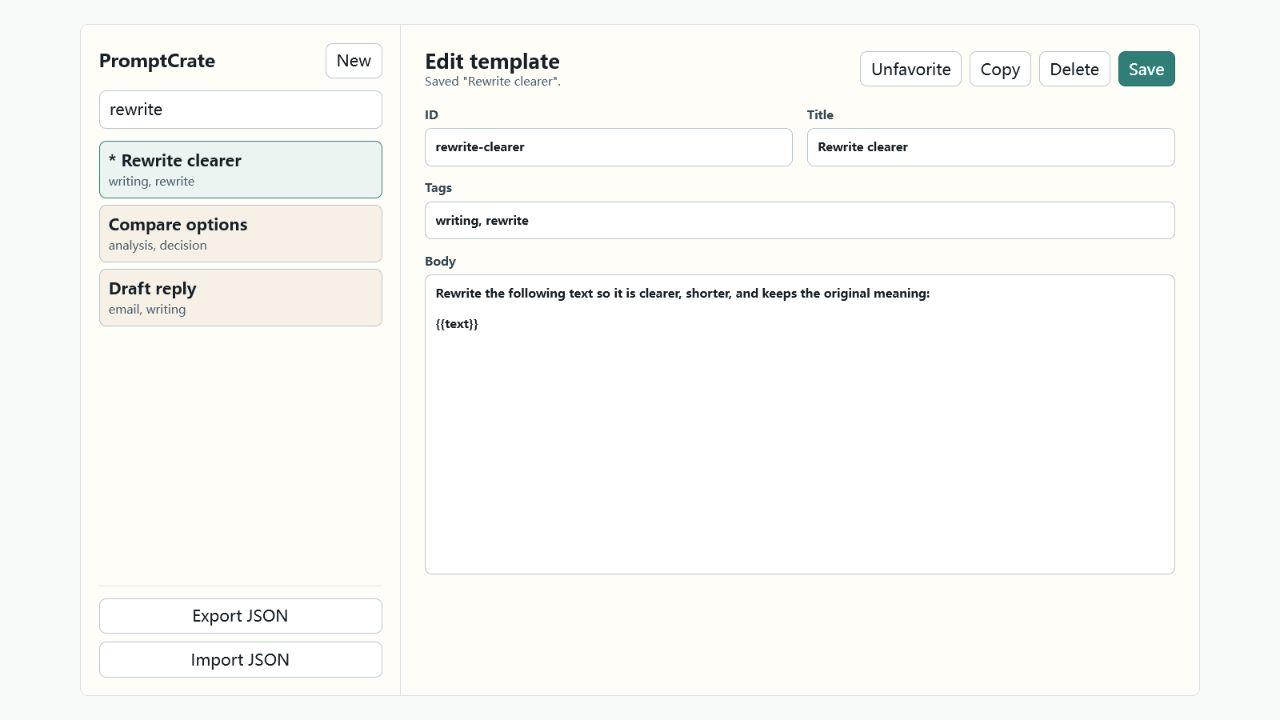
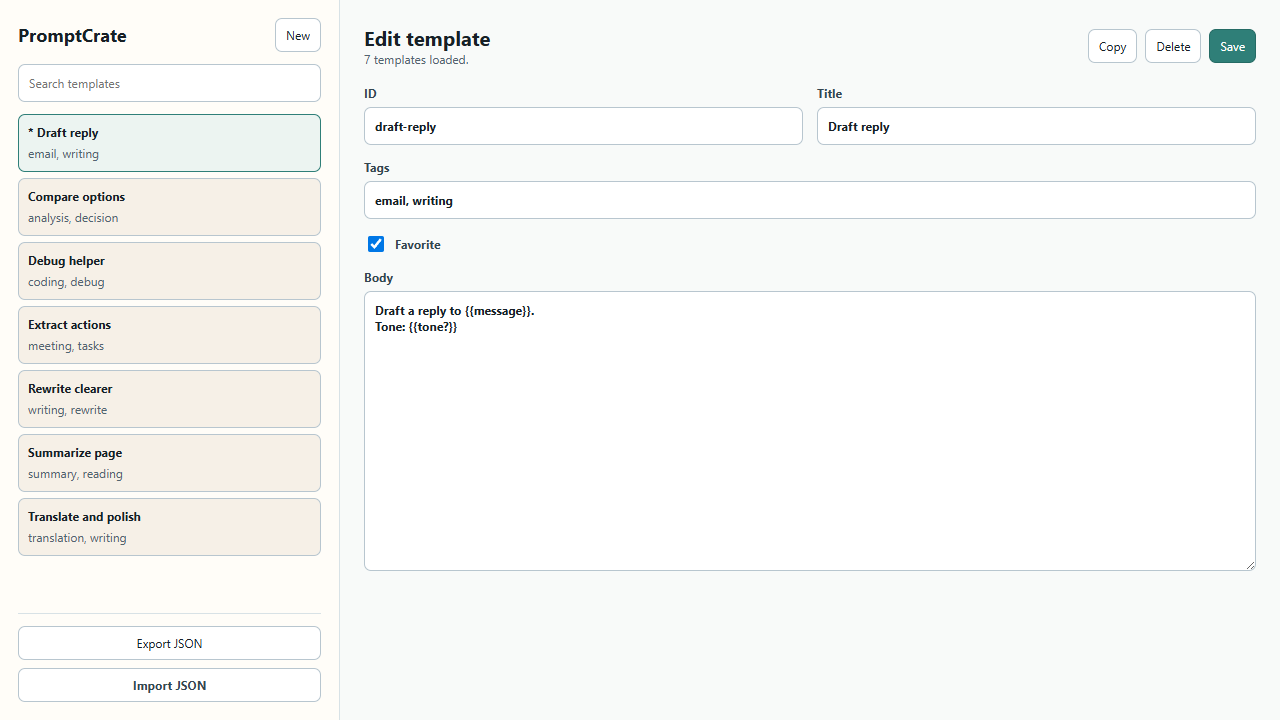
Fix favorite editing, automatic template IDs, and Chinese tags (#34)
Keep favorite changes in the editor until Save instead of mixing draft state with an immediate toggle. Deduplicate automatically generated IDs and accept common Chinese tag separators so repeated titles and Chinese tags can be saved reliably.

Fixes #20, fixes #22.

Tested: 76 unit tests, 19 fixture E2E tests, lint, typecheck, production build

diff --git a/tests/e2e/promptcrate-extension.spec.ts b/tests/e2e/promptcrate-extension.spec.ts
@@ -365,6 +365,123 @@ test("composes Shadow DOM insertion events and honors document beforeinput cance
   }
 });
 
+test("Options saves favorites through the form and preserves unsaved edits on failure", async (
+  { browserName }, testInfo,
+) => {
+  expect(browserName).toBe("chromium");
+  const app = await launchPromptCrate(testInfo.outputPath("profile-favorite-form"));
+  try {
+    const options = await resetExtensionStorage(app.extensionId, app.context);
+    await options.getByRole("button", { name: "Draft reply", exact: false }).click();
+    const favorite = options.getByRole("checkbox", { name: "Favorite", exact: true });
+    const saved = async () => (await readTemplates(options)).find((record) => record.id === "draft-reply");
+    const originalBody = (await saved())!.body;
+    await expect(options.getByRole("button", { name: /^(Unfavorite|Favorite)$/ })).toHaveCount(0);
+    await favorite.check();
+    await options.getByLabel("Body").fill("Draft a reply to {{message}}.\nTone: {{tone?}}");
+    expect((await saved())!.isFavorite).toBe(false);
+    expect((await saved())!.body).toBe(originalBody);
+
+    await options.evaluate(() => {
+      const originalSet = chrome.storage.local.set;
+      chrome.storage.local.set = (() => Promise.reject(new Error("Test save failure"))) as typeof chrome.storage.local.set;
+      window.addEventListener("promptcrate:test-restore-save", () => {
+        chrome.storage.local.set = originalSet;
+      }, { once: true });
+    });
+    await options.getByRole("button", { name: "Save", exact: true }).click();
+    await expect(options.locator(".status.error")).toContainText("Test save failure");
+    await expect(favorite).toBeChecked();
+    await expect(options.getByLabel("Body")).toHaveValue("Draft a reply to {{message}}.\nTone: {{tone?}}");
+    expect((await saved())!.isFavorite).toBe(false);
+
+    await options.evaluate(() => window.dispatchEvent(new Event("promptcrate:test-restore-save")));
+    await options.getByRole("button", { name: "Save", exact: true }).click();
+    await expect(options.locator(".status")).toContainText('Saved "Draft reply".');
+    expect((await saved())!.isFavorite).toBe(true);
+    expect((await saved())!.body).toBe("Draft a reply to {{message}}.\nTone: {{tone?}}");
+    await expect(options.locator(".template-row").first()).toContainText("* Draft reply");
+    await options.reload();
+    await expect(options.locator(".status")).toContainText("templates loaded.");
+    await options.getByRole("button", { name: /Draft reply/ }).click();
+    await expect(favorite).toBeChecked();
+    const screenshotPath = testInfo.outputPath("options-favorite-form.png");
+    await options.screenshot({ path: screenshotPath, fullPage: true });
+    await testInfo.attach("options-favorite-form", { path: screenshotPath, contentType: "image/png" });
+
+    await favorite.uncheck();
+    expect((await saved())!.isFavorite).toBe(true);
+    await options.getByRole("button", { name: "Save", exact: true }).click();
+    await expect(options.locator(".status")).toContainText('Saved "Draft reply".');
+    expect((await saved())!.isFavorite).toBe(false);
+    await options.reload();
+    await expect(options.locator(".status")).toContainText("templates loaded.");
+    await options.getByRole("button", { name: /Draft reply/ }).click();
+    await expect(favorite).not.toBeChecked();
+  } finally {
+    await app.context.close();
+  }
+});
+
+test("Options generates unique automatic IDs and splits Chinese tag punctuation", async (
+  { browserName }, testInfo,
+) => {
+  expect(browserName).toBe("chromium");
+  const app = await launchPromptCrate(testInfo.outputPath("profile-auto-ids"));
+  try {
+    const options = await resetExtensionStorage(app.extensionId, app.context);
+    const original = (await readTemplates(options)).find((record) => record.id === "summarize-page");
+    for (const suffix of ["2", "3"]) {
+      await options.getByRole("button", { name: "New", exact: true }).click();
+      await options.getByLabel("Title", { exact: true }).fill("Summarize page");
+      await options.getByLabel("Body", { exact: true }).fill(`Separate template ${suffix}`);
+      await options.getByLabel("Tags", { exact: true }).fill("写作，翻译、 写作;coding；阅读, , translation");
+      await options.getByRole("checkbox", { name: "Favorite", exact: true }).check();
+      await options.getByRole("button", { name: "Save", exact: true }).click();
+      await expect(options.locator(".status")).toContainText('Saved "Summarize page".');
+      await expect(options.getByLabel("ID", { exact: true })).toHaveValue(`summarize-page-${suffix}`);
+      const record = (await readTemplates(options)).find((item) => item.id === `summarize-page-${suffix}`);
+      expect(record).toMatchObject({
+        body: `Separate template ${suffix}`, isFavorite: true,
+        tags: ["写作", "翻译", "coding", "阅读", "translation"],
+      });
+    }
+    expect((await readTemplates(options)).find((record) => record.id === "summarize-page")).toEqual(original);
+    // Clearing the ID during editing may reuse that template's own generated ID.
+    await options.getByLabel("ID", { exact: true }).fill("   ");
+    await options.getByRole("button", { name: "Save", exact: true }).click();
+    await expect(options.locator(".status")).toContainText('Saved "Summarize page".');
+    await expect(options.getByLabel("ID", { exact: true })).toHaveValue("summarize-page-3");
+    expect(await readTemplates(options)).toHaveLength(9);
+
+    await options.getByRole("button", { name: "New", exact: true }).click();
+    await options.getByLabel("ID", { exact: true }).fill(" summarize-page ");
+    await options.getByLabel("Title", { exact: true }).fill("Explicit duplicate");
+    await options.getByLabel("Body", { exact: true }).fill("Must not overwrite");
+    await options.getByRole("button", { name: "Save", exact: true }).click();
+    await expect(options.locator(".status.error")).toContainText("Template ID already exists.");
+    expect(await readTemplates(options)).toHaveLength(9);
+    expect((await readTemplates(options)).find((record) => record.id === "summarize-page")).toEqual(original);
+
+    // Non-Latin titles can fall back to the same timestamp; generated IDs still need deduplication.
+    await options.evaluate(() => { Date.now = () => 1_793_318_400_000; });
+    for (const suffix of ["", "-2"]) {
+      await options.getByRole("button", { name: "New", exact: true }).click();
+      await options.getByLabel("Title", { exact: true }).fill("翻译模板");
+      await options.getByLabel("Body", { exact: true }).fill("Translate {{text}}");
+      await options.getByRole("button", { name: "Save", exact: true }).click();
+      await expect(options.locator(".status")).toContainText('Saved "翻译模板".');
+      await expect(options.getByLabel("ID", { exact: true })).toHaveValue(`template-1793318400000${suffix}`);
+    }
+    await options.reload();
+    await expect(options.locator(".status")).toContainText("11 templates loaded.");
+    const records = await readTemplates(options);
+    expect(new Set(records.map((record) => record.id)).size).toBe(11);
+  } finally {
+    await app.context.close();
+  }
+});
+
 test("manages templates through Options CRUD, import, export, and persistence", async (
   { browserName },
   testInfo,
@@ -392,8 +509,9 @@ test("manages templates through Options CRUD, import, export, and persistence", 
     await expect(options.locator(".status")).toContainText('Saved "E2E Insert Template".');
     await expect.poll(() => readTemplates(options).then((items) => items.length)).toBe(8);
 
-    await options.getByRole("button", { name: "Favorite" }).click();
-    await expect(options.locator(".status")).toContainText("Favorite updated.");
+    await options.getByRole("checkbox", { name: "Favorite", exact: true }).check();
+    await options.getByRole("button", { name: "Save", exact: true }).click();
+    await expect(options.locator(".status")).toContainText('Saved "E2E Insert Template".');
     await expect(options.locator(".template-row").first()).toContainText("* E2E Insert Template");
 
     await options.getByLabel("Body").fill("E2E edited body for {{name}}");

diff --git a/src/options/options-app.tsx b/src/options/options-app.tsx
@@ -88,7 +88,10 @@ function OptionsApp() {
     }
 
     const candidate = normalizeTemplate({
-      id: form.id || createTemplateId(form.title),
+      id: form.id.trim() || createUniqueTemplateId(
+        createTemplateId(form.title),
+        templates.filter((template) => template.id !== selectedId),
+      ),
       title: form.title,
       body: form.body,
       tags: normalizeTags(splitTags(form.tags)),
@@ -166,29 +169,6 @@ function OptionsApp() {
     }
     setSelectedId(copy.id);
     setForm(templateToForm(copy));
-  }
-
-  async function toggleFavorite(template: PromptTemplate): Promise<void> {
-    const nextTemplates = templates.map((item) =>
-      item.id === template.id
-        ? {
-            ...item,
-            isFavorite: !item.isFavorite,
-            updatedAt: new Date().toISOString(),
-          }
-        : item,
-    );
-
-    if (!await persistTemplates(nextTemplates, "Favorite updated.")) {
-      return;
-    }
-
-    if (selectedId === template.id) {
-      setForm((currentForm) => ({
-        ...currentForm,
-        isFavorite: !template.isFavorite,
-      }));
-    }
   }
 
   function exportTemplates(): void {
@@ -351,13 +331,6 @@ function OptionsApp() {
               <button
                 type="button"
                 disabled={!selectedTemplate}
-                onClick={() => selectedTemplate && void toggleFavorite(selectedTemplate)}
-              >
-                {form.isFavorite ? "Unfavorite" : "Favorite"}
-              </button>
-              <button
-                type="button"
-                disabled={!selectedTemplate}
                 onClick={() => void duplicateTemplate()}
               >
                 Copy
@@ -463,7 +436,7 @@ function templateToForm(template: PromptTemplate): TemplateFormState {
 }
 
 function splitTags(tags: string): string[] {
-  return tags.split(",");
+  return tags.split(/[,，、;；\r\n]+/);
 }
 
 function createTemplateId(title: string): string {

diff --git a/docs/template-editor.md b/docs/template-editor.md
@@ -1,0 +1,9 @@
+# 模板编辑
+
+在扩展详情页打开 Options，选择已有模板或点击 New 新建模板。正文支持变量，语法见 [模板变量](template-variables.md)。
+
+- **收藏**：勾选或取消 Favorite 后点击 Save，与正文、标题等修改一起保存。保存前不会改变模板列表中的收藏标记和排序；保存失败时会保留表单内容，修复问题后可重试。
+- **自动 ID**：ID 留空时根据标题生成，并自动添加 `-2`、`-3` 等后缀避开已有 ID。同名模板可以分别保存。中文等标题没有英文 slug 时使用时间戳 ID，也会检查冲突。手动填写重复 ID 会提示错误，不会覆盖已有模板。
+- **标签**：支持英文逗号 `,`、中文逗号 `，`、顿号 `、`、英文分号 `;` 和中文分号 `；`。保存时会去除标签两侧空格、空标签和重复项。
+
+![模板编辑页](screenshots/options-page.png)
